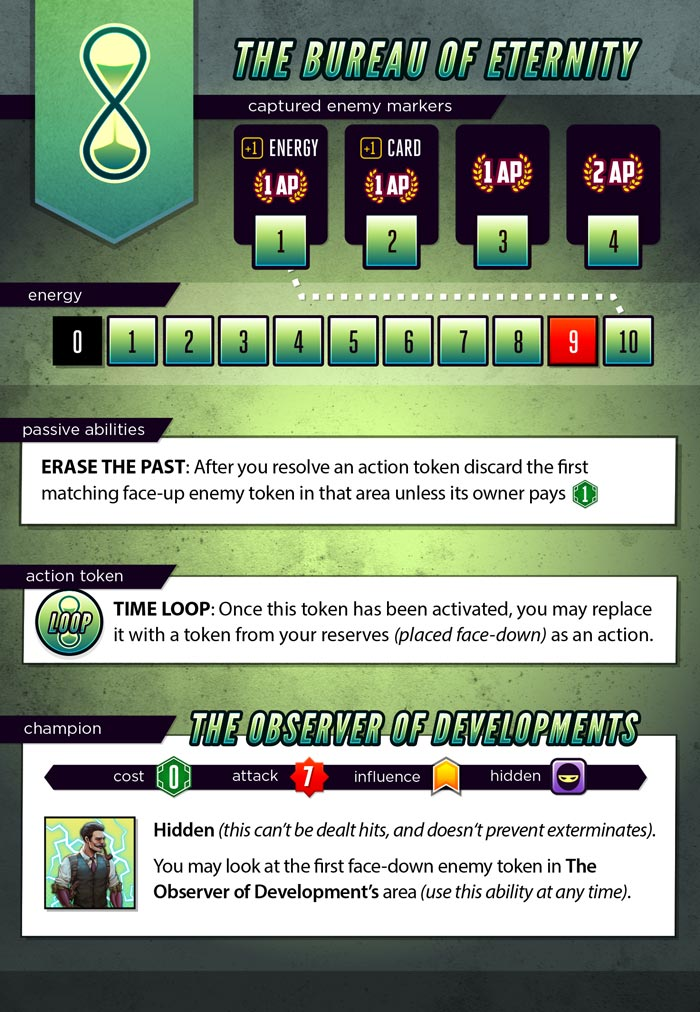
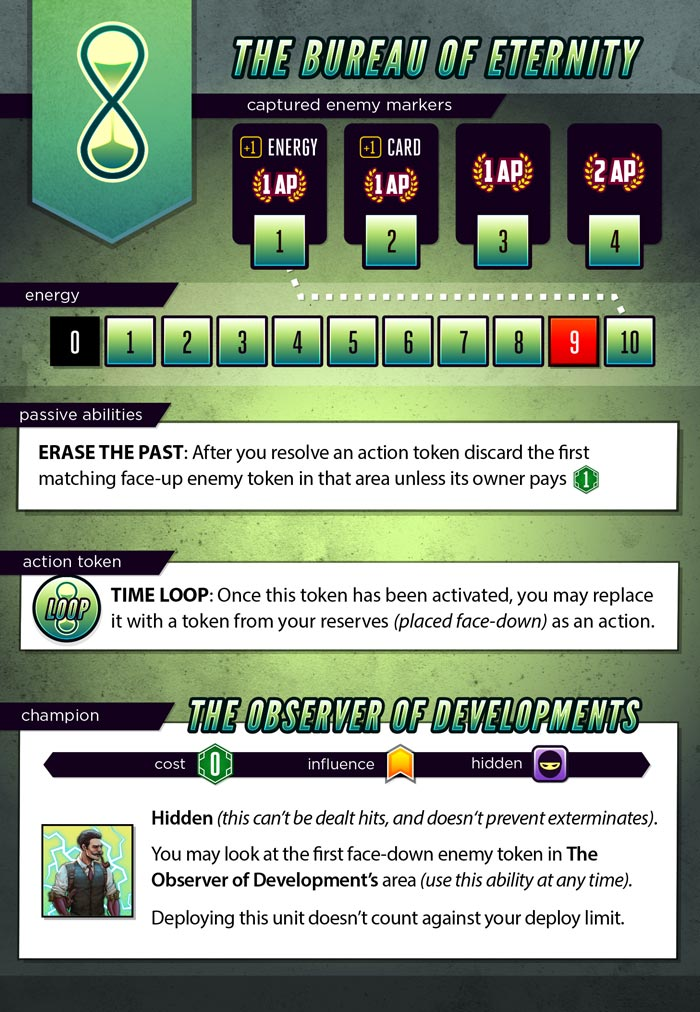
Remove attack from Observer of Developments

diff --git a/server/classes/factions/Bureau.js b/server/classes/factions/Bureau.js
@@ -12,6 +12,7 @@ class Bureau extends Faction {
         this.data.title = "The Bureau of Eternity";
         this.data.focus = 'most-tokens-focus';
         this.data.focusDescription = "Have the most tokens in many areas";
+        this.data.bonusDeploy = { type: 'champion', count : 1 };
 
         this.data.skips = {
             max : 0,
@@ -42,7 +43,7 @@ class Bureau extends Faction {
                 type: 'champion',
                 basic: false,
                 influence: 1,
-                attack: [7],
+                attack: [],
                 cost: 0,
                 hidden : true,
                 killed: false,
